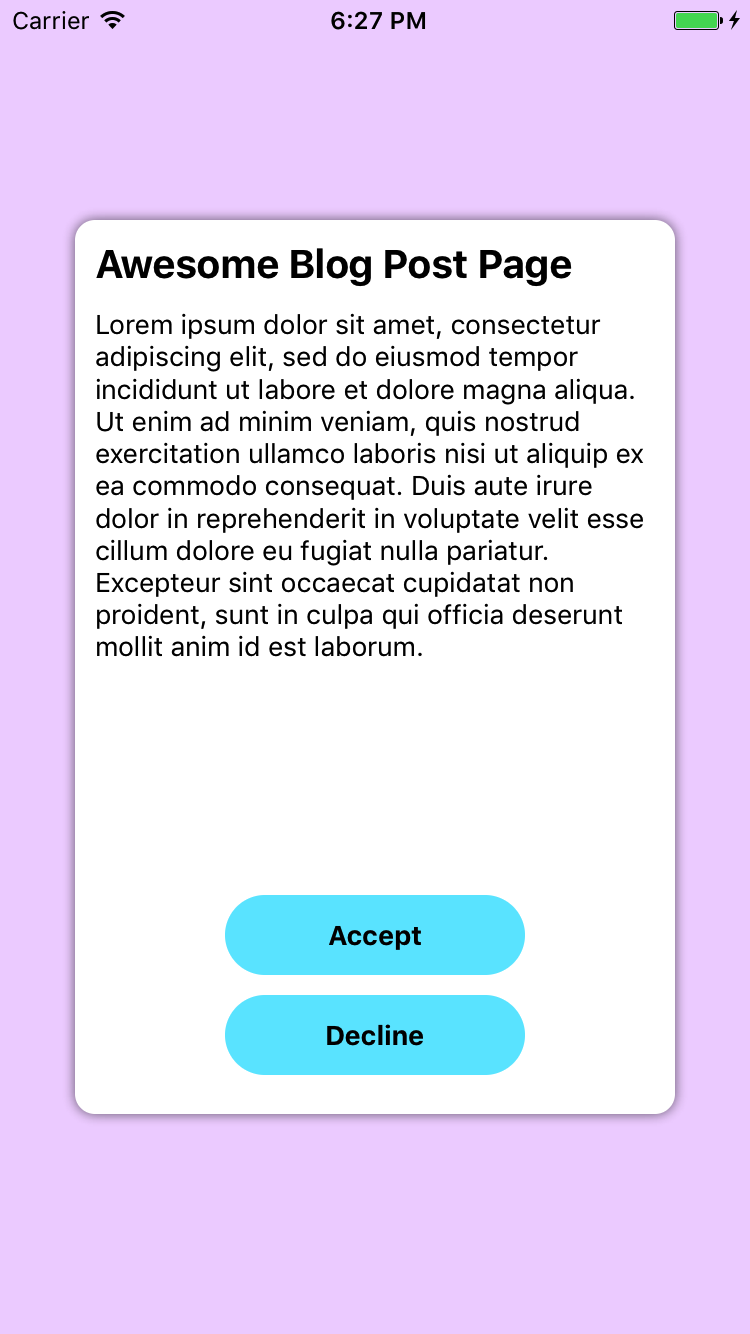
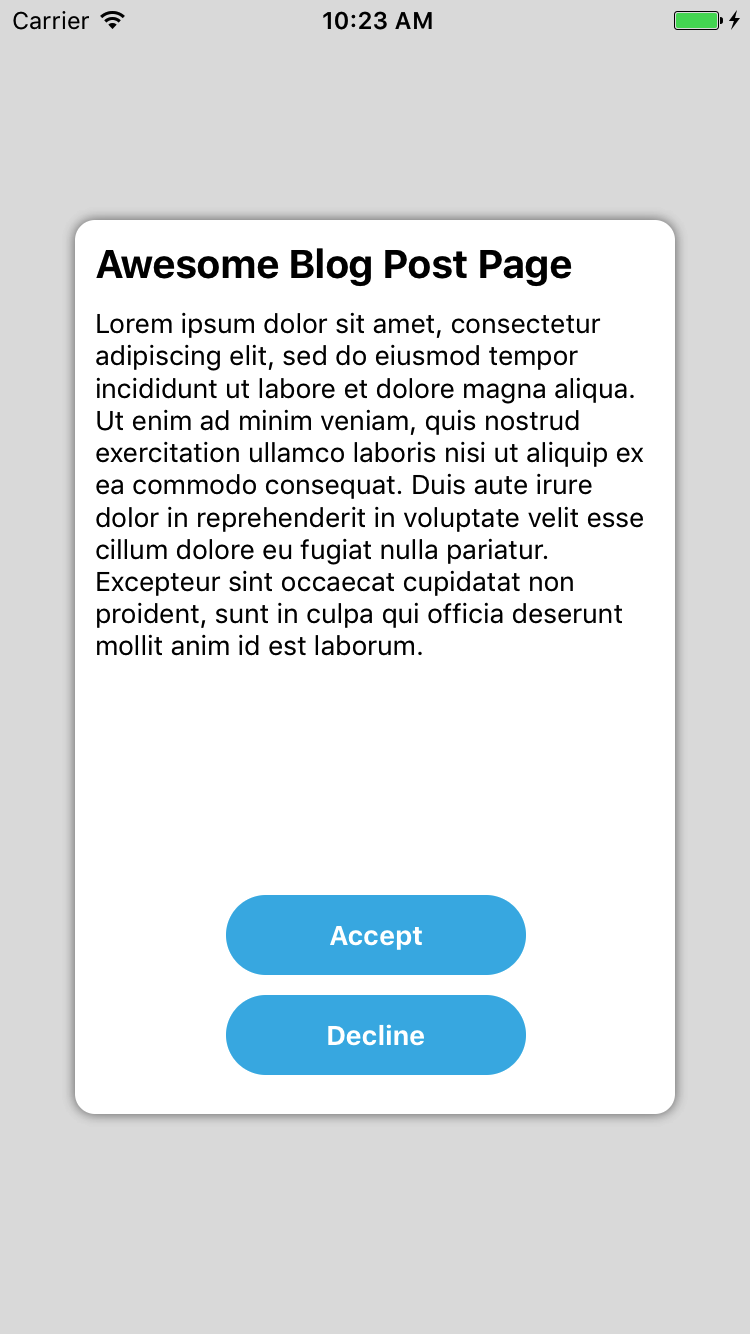
replaced colors

diff --git a/pages/ScalingExample.js b/pages/ScalingExample.js
@@ -27,7 +27,7 @@ const styles = StyleSheet.create({
     container: {
         width: width,
         height: height,
-        backgroundColor: '#F0D6FF',
+        backgroundColor: '#E0E0E0',
         alignItems: 'center',
         justifyContent: 'center',
     },
@@ -66,13 +66,13 @@ const styles = StyleSheet.create({
         height: moderateScale(45, 0.3),
         borderRadius: 100,
         marginBottom: moderateScale(10, 0.6),
-        backgroundColor: '#66E8FF',
+        backgroundColor: '#41B6E6',
         alignItems: 'center',
         justifyContent: 'center',
     },
     buttonText: {
         fontWeight: 'bold',
         fontSize: moderateScale(14),
-        color: 'black'
+        color: 'white'
     }
 });

diff --git a/pages/ViewPortExample.js b/pages/ViewPortExample.js
@@ -27,7 +27,7 @@ const styles = StyleSheet.create({
     container: {
         width: width,
         height: height,
-        backgroundColor: '#F0D6FF',
+        backgroundColor: '#E0E0E0',
         alignItems: 'center',
         justifyContent: 'center',
     },
@@ -66,13 +66,13 @@ const styles = StyleSheet.create({
         height: 10.7 * vw,
         borderRadius: 27 * vw,
         marginBottom: 2.6 * vw,
-        backgroundColor: '#66E8FF',
+        backgroundColor: '#41B6E6',
         alignItems: 'center',
         justifyContent: 'center',
     },
     buttonText: {
         fontWeight: 'bold',
         fontSize: 3.6 * vw,
-        color: 'black'
+        color: 'white'
     }
 });

diff --git a/pages/Example.js b/pages/Example.js
@@ -25,7 +25,7 @@ const styles = StyleSheet.create({
     container: {
         width: width,
         height: height,
-        backgroundColor: '#F0D6FF',
+        backgroundColor: '#E0E0E0',
         alignItems: 'center',
         justifyContent: 'center',
     },
@@ -64,13 +64,13 @@ const styles = StyleSheet.create({
         height: 45,
         borderRadius: 100,
         marginBottom: 10,
-        backgroundColor: '#66E8FF',
+        backgroundColor: '#41B6E6',
         alignItems: 'center',
         justifyContent: 'center',
     },
     buttonText: {
         fontWeight: 'bold',
         fontSize: 14,
-        color: 'black'
+        color: 'white'
     }
 });

diff --git a/pages/FlexExample.js b/pages/FlexExample.js
@@ -32,7 +32,7 @@ const styles = StyleSheet.create({
     container: {
         width: width,
         height: height,
-        backgroundColor: '#F0D6FF',
+        backgroundColor: '#E0E0E0',
         alignItems: 'center',
         justifyContent: 'center',
     },
@@ -69,13 +69,13 @@ const styles = StyleSheet.create({
         height: 45,
         borderRadius: 100,
         marginBottom: 10,
-        backgroundColor: '#66E8FF',
+        backgroundColor: '#41B6E6',
         alignItems: 'center',
         justifyContent: 'center',
     },
     buttonText: {
         fontWeight: 'bold',
         fontSize: 14,
-        color: 'black'
+        color: 'white'
     }
 });

diff --git a/index.android.js b/index.android.js
@@ -1,11 +1,8 @@
-import React, { Component } from 'react';
+import React from 'react';
 import { AppRegistry } from 'react-native';
-import Example from './pages/Example';
-import FlexExample from './pages/FlexExample';
-import ViewPortExample from './pages/ViewPortExample';
-import ScalingExample from './pages/ScalingExample';
+import App from './pages/App';
 
-const BlogPost = () => <ScalingExample/>;
+const BlogPost = () => <App/>;
 export default BlogPost;
 
 AppRegistry.registerComponent('BlogPost', () => BlogPost);

diff --git a/index.ios.js b/index.ios.js
@@ -1,11 +1,8 @@
-import React, { Component } from 'react';
+import React from 'react';
 import { AppRegistry } from 'react-native';
-import Example from './pages/Example';
-import FlexExample from './pages/FlexExample';
-import ViewPortExample from './pages/ViewPortExample';
-import ScalingExample from './pages/ScalingExample';
+import App from './pages/App';
 
-const BlogPost = () => <ScalingExample/>;
+const BlogPost = () => <App/>;
 export default BlogPost;
 
 AppRegistry.registerComponent('BlogPost', () => BlogPost);

diff --git a/pages/App.js b/pages/App.js
@@ -1,0 +1,9 @@
+import React from 'react';
+import Example from './Example';
+import FlexExample from './FlexExample';
+import ViewPortExample from './ViewPortExample';
+import ScalingExample from './ScalingExample';
+
+const App = () => <Example/>;
+
+export default App;

diff --git a/README.md b/README.md
@@ -52,7 +52,7 @@ const styles = StyleSheet.create({
     container: {
         width: width,
         height: height,
-        backgroundColor: '#F0D6FF',
+        backgroundColor: '#E0E0E0',
         alignItems: 'center',
         justifyContent: 'center',
     },
@@ -91,14 +91,14 @@ const styles = StyleSheet.create({
         height: 45,
         borderRadius: 100,
         marginBottom: 10,
-        backgroundColor: '#66E8FF',
+        backgroundColor: '#41B6E6',
         alignItems: 'center',
         justifyContent: 'center',
     },
     buttonText: {
         fontWeight: 'bold',
         fontSize: 14,
-        color: 'black'
+        color: 'white'
     }
 });
 ```
@@ -208,7 +208,7 @@ const styles = StyleSheet.create({
     buttonText: {
         fontWeight: 'bold',
         fontSize: 3.6 * vw,
-        color: 'black'
+        color: 'white'
     }
 });
 ```
